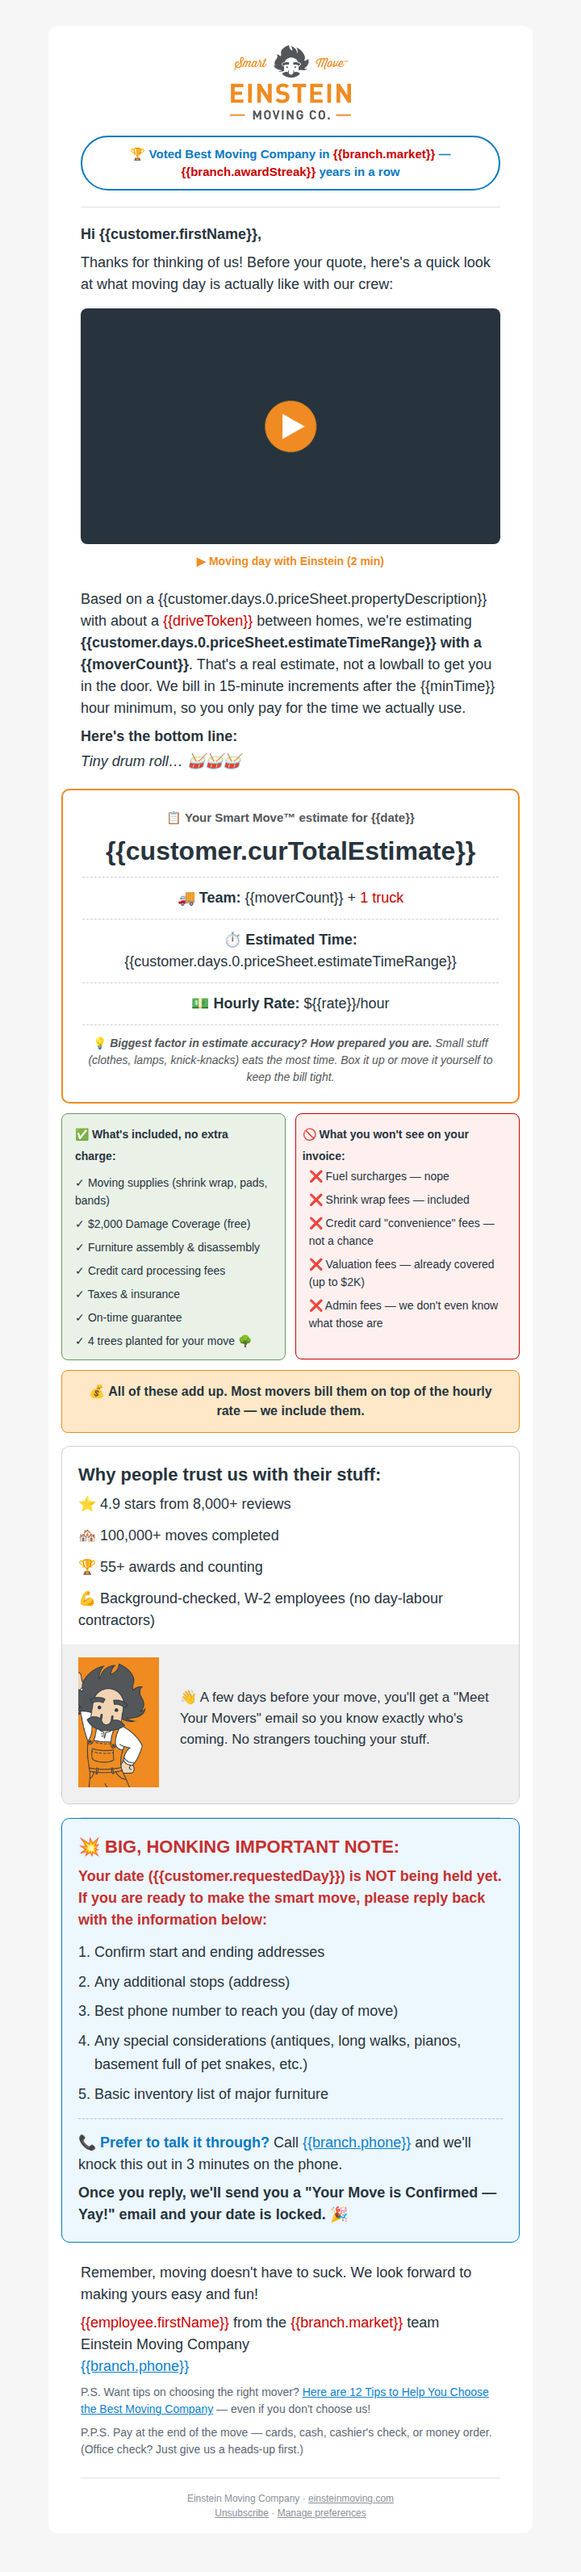
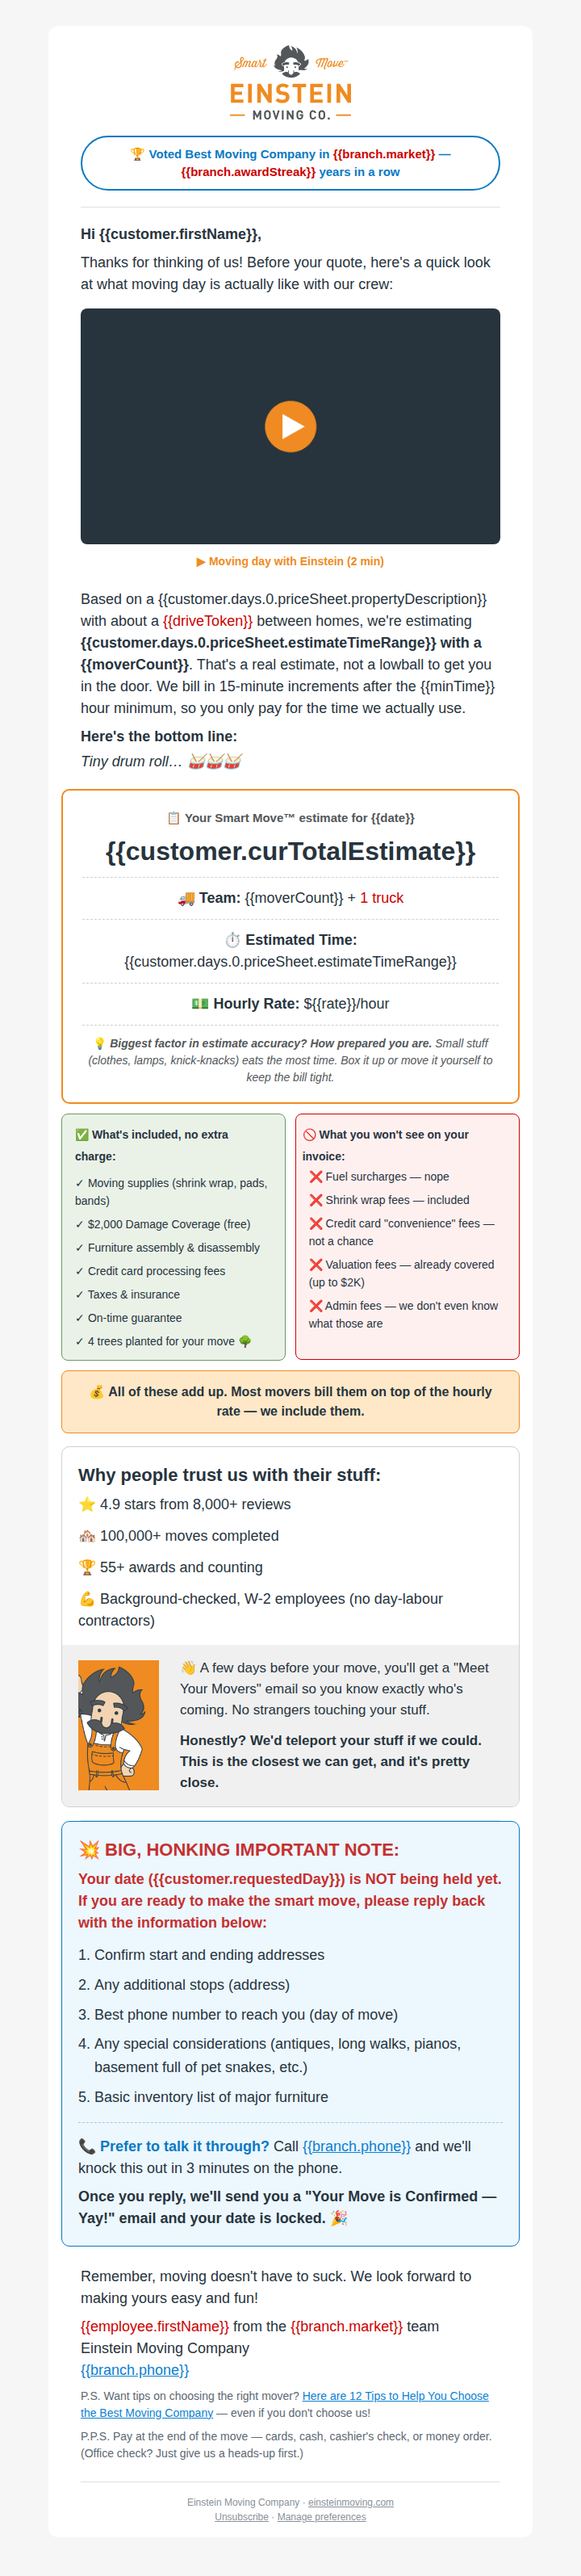
Quote email render: teleport line restored
Claude-Session: https://claude.ai/code/session_01QFvo78F4cxSifXhj69psmH

diff --git a/copy-sprint-b8ad43/emails/src/00-new-quote-email-design.html b/copy-sprint-b8ad43/emails/src/00-new-quote-email-design.html
@@ -64,7 +64,7 @@ p { display: block; margin: 13px 0; }
           🏆 55+ awards and counting
         </div></td></tr><tr><td align="left" style="font-size:0px;padding:4px 20px 16px;word-break:break-word;"><div style="font-family:Roboto, -apple-system, BlinkMacSystemFont, 'Segoe UI', sans-serif;font-size:18px;font-weight:400;line-height:27px;text-align:left;color:#27343D;">
           💪 Background-checked, W-2 employees (no day-labour contractors)
-        </div></td></tr><!-- Gray sub-section: mascot + text --><tr><td align="left" style="font-size:0px;padding:0;word-break:break-word;"><div style="font-family:Roboto, -apple-system, BlinkMacSystemFont, 'Segoe UI', sans-serif;font-size:18px;font-weight:400;line-height:27px;text-align:left;color:#27343D;"><div style="background-color: #F0F0F0; border-radius: 0 0 10px 10px; padding: 16px 20px;"><table width="100%" cellpadding="0" cellspacing="0" style="border-collapse: collapse;"><tr><!-- Mascot column — swap SVG src for PNG if Outlook support needed --><td width="110" valign="bottom" style="padding-right: 16px; padding-bottom: 4px;"><img src="https://www.einsteinmoving.com/wp-content/uploads/2026/06/Einstein-Coveralls.png" alt="Einstein mascot" width="100" style="display: block; width: 100px; max-width: 100px;" /></td><!-- Text column --><td valign="middle"><p style="margin: 0 0 12px; font-size: 17px; line-height: 26px; color: #27343D;">👋 A few days before your move, you'll get a "Meet Your Movers" email so you know exactly who's coming. No strangers touching your stuff.</p></td></tr></table></div></div></td></tr></tbody></table></td></tr></tbody></table></div><!--[if mso | IE]></td><![endif]--><!--[if mso | IE]></tr></table><![endif]--></td></tr></tbody></table></div><!--[if mso | IE]></td></tr></table><![endif]--><!-- ─── DIVIDER ────────────────────────────────────────────── --><!--[if mso | IE]><table border="0" cellpadding="0" cellspacing="0" role="presentation" bgcolor="#FFFFFF" align="center" width="600" style="width:600px;"><tr><td style="line-height:0px;font-size:0px;mso-line-height-rule:exactly;"><![endif]--><div style="background:#FFFFFF;background-color:#FFFFFF;margin:0px auto;max-width:600px;"><table border="0" cellpadding="0" cellspacing="0" role="presentation" align="center" style="background:#FFFFFF;background-color:#FFFFFF;width:100%;"><tbody><tr><td style="direction:ltr;font-size:0px;padding:0 16px;text-align:center;"><!--[if mso | IE]><table border="0" cellpadding="0" cellspacing="0" role="presentation"><tr><![endif]--><!--[if mso | IE]><td style="vertical-align:top;width:600px;"><![endif]--><div class="mj-outlook-group-fix mj-column-per-100" style="font-size:0px;text-align:left;direction:ltr;display:inline-block;vertical-align:top;width:100%;"><table border="0" cellpadding="0" cellspacing="0" role="presentation" width="100%"><tbody><tr><td style="vertical-align:top;padding:0;"><table border="0" cellpadding="0" cellspacing="0" role="presentation" width="100%"><tbody><tr><td align="center" style="font-size:0px;padding:16px 24px 0;word-break:break-word;"><p style="border-top:solid 1px #E0E0E0;font-size:1px;margin:0px auto;width:100%;"></p><!--[if mso | IE]><table border="0" cellpadding="0" cellspacing="0" role="presentation" align="center" width="600px" style="border-top:solid 1px #E0E0E0;font-size:1px;margin:0px auto;width:600px;"><tr><td style="height:0;line-height:0;">&nbsp;</td></tr></table><![endif]--></td></tr></tbody></table></td></tr></tbody></table></div><!--[if mso | IE]></td><![endif]--><!--[if mso | IE]></tr></table><![endif]--></td></tr></tbody></table></div><!--[if mso | IE]></td></tr></table><![endif]--><!-- ─── CTA / NEXT STEPS ───────────────────────────────────── --><!--[if mso | IE]><table border="0" cellpadding="0" cellspacing="0" role="presentation" bgcolor="#FFFFFF" align="center" width="600" style="width:600px;"><tr><td style="line-height:0px;font-size:0px;mso-line-height-rule:exactly;"><![endif]--><div style="background:#FFFFFF;background-color:#FFFFFF;margin:0px auto;max-width:600px;"><table border="0" cellpadding="0" cellspacing="0" role="presentation" align="center" style="background:#FFFFFF;background-color:#FFFFFF;width:100%;"><tbody><tr><td style="direction:ltr;font-size:0px;padding:0 16px 4px;text-align:center;"><!--[if mso | IE]><table border="0" cellpadding="0" cellspacing="0" role="presentation"><tr><![endif]--><!--[if mso | IE]><td style="vertical-align:top;width:600px;"><![endif]--><div class="mj-outlook-group-fix mj-column-per-100" style="font-size:0px;text-align:left;direction:ltr;display:inline-block;vertical-align:top;width:100%;"><table border="0" cellpadding="0" cellspacing="0" role="presentation" width="100%" style="border-collapse:separate;"><tbody><tr><td style="background-color:#ECF7FE;border:1px solid #0979C3;border-radius:10px;vertical-align:top;border-collapse:separate;padding:0;"><table border="0" cellpadding="0" cellspacing="0" role="presentation" width="100%"><tbody><tr><td align="left" style="font-size:0px;padding:20px 20px 4px;word-break:break-word;"><div style="font-family:Roboto, -apple-system, BlinkMacSystemFont, 'Segoe UI', sans-serif;font-size:22px;font-weight:900;line-height:30px;text-align:left;color:#C5302F;">
+        </div></td></tr><!-- Gray sub-section: mascot + text --><tr><td align="left" style="font-size:0px;padding:0;word-break:break-word;"><div style="font-family:Roboto, -apple-system, BlinkMacSystemFont, 'Segoe UI', sans-serif;font-size:18px;font-weight:400;line-height:27px;text-align:left;color:#27343D;"><div style="background-color: #F0F0F0; border-radius: 0 0 10px 10px; padding: 16px 20px;"><table width="100%" cellpadding="0" cellspacing="0" style="border-collapse: collapse;"><tr><!-- Mascot column — swap SVG src for PNG if Outlook support needed --><td width="110" valign="bottom" style="padding-right: 16px; padding-bottom: 4px;"><img src="https://www.einsteinmoving.com/wp-content/uploads/2026/06/Einstein-Coveralls.png" alt="Einstein mascot" width="100" style="display: block; width: 100px; max-width: 100px;" /></td><!-- Text column --><td valign="middle"><p style="margin: 0 0 12px; font-size: 17px; line-height: 26px; color: #27343D;">👋 A few days before your move, you'll get a "Meet Your Movers" email so you know exactly who's coming. No strangers touching your stuff.</p><p style="margin: 0; font-size: 17px; line-height: 26px; color: #27343D;"><strong>Honestly? We'd teleport your stuff if we could. This is the closest we can get, and it's pretty close.</strong></p></td></tr></table></div></div></td></tr></tbody></table></td></tr></tbody></table></div><!--[if mso | IE]></td><![endif]--><!--[if mso | IE]></tr></table><![endif]--></td></tr></tbody></table></div><!--[if mso | IE]></td></tr></table><![endif]--><!-- ─── DIVIDER ────────────────────────────────────────────── --><!--[if mso | IE]><table border="0" cellpadding="0" cellspacing="0" role="presentation" bgcolor="#FFFFFF" align="center" width="600" style="width:600px;"><tr><td style="line-height:0px;font-size:0px;mso-line-height-rule:exactly;"><![endif]--><div style="background:#FFFFFF;background-color:#FFFFFF;margin:0px auto;max-width:600px;"><table border="0" cellpadding="0" cellspacing="0" role="presentation" align="center" style="background:#FFFFFF;background-color:#FFFFFF;width:100%;"><tbody><tr><td style="direction:ltr;font-size:0px;padding:0 16px;text-align:center;"><!--[if mso | IE]><table border="0" cellpadding="0" cellspacing="0" role="presentation"><tr><![endif]--><!--[if mso | IE]><td style="vertical-align:top;width:600px;"><![endif]--><div class="mj-outlook-group-fix mj-column-per-100" style="font-size:0px;text-align:left;direction:ltr;display:inline-block;vertical-align:top;width:100%;"><table border="0" cellpadding="0" cellspacing="0" role="presentation" width="100%"><tbody><tr><td style="vertical-align:top;padding:0;"><table border="0" cellpadding="0" cellspacing="0" role="presentation" width="100%"><tbody><tr><td align="center" style="font-size:0px;padding:16px 24px 0;word-break:break-word;"><p style="border-top:solid 1px #E0E0E0;font-size:1px;margin:0px auto;width:100%;"></p><!--[if mso | IE]><table border="0" cellpadding="0" cellspacing="0" role="presentation" align="center" width="600px" style="border-top:solid 1px #E0E0E0;font-size:1px;margin:0px auto;width:600px;"><tr><td style="height:0;line-height:0;">&nbsp;</td></tr></table><![endif]--></td></tr></tbody></table></td></tr></tbody></table></div><!--[if mso | IE]></td><![endif]--><!--[if mso | IE]></tr></table><![endif]--></td></tr></tbody></table></div><!--[if mso | IE]></td></tr></table><![endif]--><!-- ─── CTA / NEXT STEPS ───────────────────────────────────── --><!--[if mso | IE]><table border="0" cellpadding="0" cellspacing="0" role="presentation" bgcolor="#FFFFFF" align="center" width="600" style="width:600px;"><tr><td style="line-height:0px;font-size:0px;mso-line-height-rule:exactly;"><![endif]--><div style="background:#FFFFFF;background-color:#FFFFFF;margin:0px auto;max-width:600px;"><table border="0" cellpadding="0" cellspacing="0" role="presentation" align="center" style="background:#FFFFFF;background-color:#FFFFFF;width:100%;"><tbody><tr><td style="direction:ltr;font-size:0px;padding:0 16px 4px;text-align:center;"><!--[if mso | IE]><table border="0" cellpadding="0" cellspacing="0" role="presentation"><tr><![endif]--><!--[if mso | IE]><td style="vertical-align:top;width:600px;"><![endif]--><div class="mj-outlook-group-fix mj-column-per-100" style="font-size:0px;text-align:left;direction:ltr;display:inline-block;vertical-align:top;width:100%;"><table border="0" cellpadding="0" cellspacing="0" role="presentation" width="100%" style="border-collapse:separate;"><tbody><tr><td style="background-color:#ECF7FE;border:1px solid #0979C3;border-radius:10px;vertical-align:top;border-collapse:separate;padding:0;"><table border="0" cellpadding="0" cellspacing="0" role="presentation" width="100%"><tbody><tr><td align="left" style="font-size:0px;padding:20px 20px 4px;word-break:break-word;"><div style="font-family:Roboto, -apple-system, BlinkMacSystemFont, 'Segoe UI', sans-serif;font-size:22px;font-weight:900;line-height:30px;text-align:left;color:#C5302F;">
           💥 BIG, HONKING IMPORTANT NOTE:
         </div></td></tr><tr><td align="left" style="font-size:0px;padding:4px 20px 12px;word-break:break-word;"><div style="font-family:Roboto, -apple-system, BlinkMacSystemFont, 'Segoe UI', sans-serif;font-size:18px;font-weight:900;line-height:27px;text-align:left;color:#C5302F;">
           Your date ({{customer.requestedDay}}) is NOT being held yet. If you are ready to make the smart move, please reply back with the information below:
